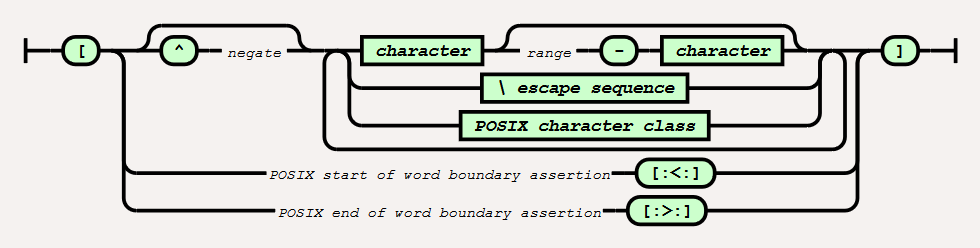
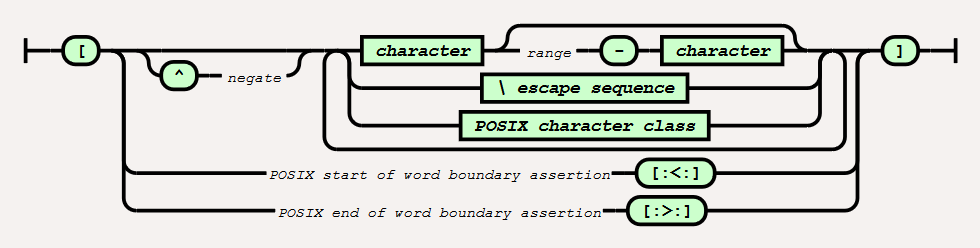
make negation paths not straight. clarification on escape sequence

Changed region(s): [[0.1224, 0.0847, 0.3367, 0.3669]]

diff --git a/docs/index.html b/docs/index.html
@@ -246,7 +246,7 @@
 			Terminal('['),
 			Choice(0,
 				Sequence(
-					 Optional(Sequence('^', Comment('negate'))),
+					 Optional(Sequence('^', Comment('negate')), "skip"),
 					 OneOrMore(
 						 Choice(0,
 						 	Sequence(
@@ -284,7 +284,8 @@
 		Start('simple', 'test'),
 		'[:',
 		Optional(
-			Sequence('^', Comment('negate'))
+			Sequence('^', Comment('negate')),
+            "skip"
 		),
 		Choice(0,
 			Terminal('alnum', {href: '#posix-alnum'}),
@@ -357,7 +358,8 @@
 		<p>
 			An escape sequence may appear within a <a href="#branch">branch</a>. Additionally, they may appear within a
 			<a href="#character-class">character class</a> depending on the escape sequence. A 
-			<a href="#quantifier">quantifier</a> may come after it depending on the escape sequence.
+			<a href="#quantifier">quantifier</a> may come after an escape sequence appearing in a branch depending on the
+            escape sequence.
 		</p>
 		
 		<p class="table-responsive"><script>
